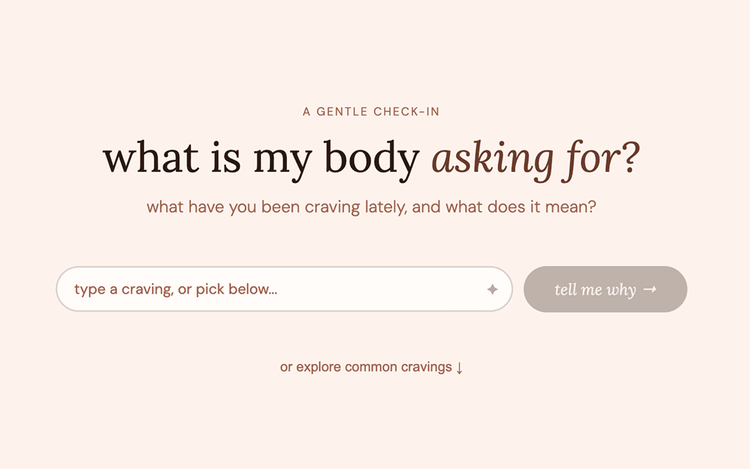
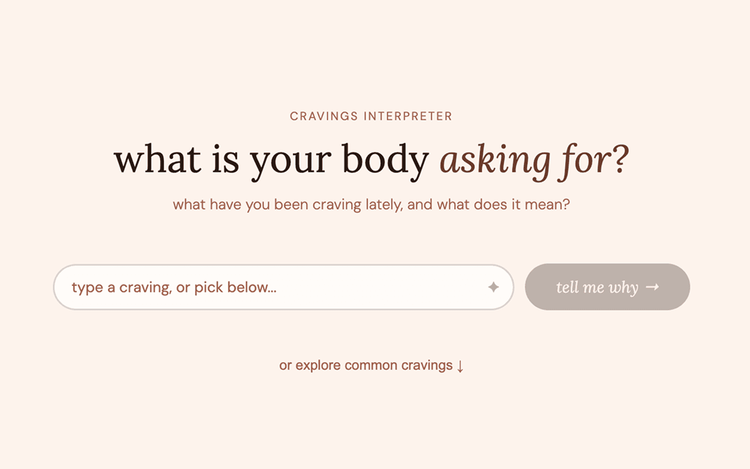
deploy: 8d00134ba653d9944df996dab0ade2da004dc816

diff --git a/projects/cravings/index.html b/projects/cravings/index.html
@@ -103,7 +103,7 @@
     <!-- Main content -->
     <div class="project-content">
       
-        <p>A small experimental tool for making sense of food cravings!</p><p>This was a “vibe coding” project where I skipped the usual Figma phase and built directly in the browser, using AI as a collaborative partner. I described the concept and visual direction, then iterated between Claude and ChatGPT to shape both the interface and logic.</p><p>The idea came from a personal problem: I’d often crave very specific textures or flavors, and always wondered why. I realized cravings can often point to something deeper that’s needed by your body, but instead of Googling it every time, I wanted a lightweight tool I could use to translate that for me.</p><p>Right now, the tool uses a structured set of keywords and associations to map inputs to categories. In the future, I’d be interested in exploring a more dynamic, AI-driven version that can better handle nuanced or mixed cravings.</p>
+        <p><i>[This tool is still underdoing edits]</i></p><p>A small experimental tool for making sense of food cravings!&nbsp;</p><p>This was a “vibe coding” project where I skipped the usual Figma phase and built directly in the browser, using AI as a collaborative partner. I described the concept and visual direction, then iterated between Claude and ChatGPT to shape both the interface and logic.</p><p>The idea came from a personal problem: I’d often crave very specific textures or flavors, and always wondered why. I realized cravings can often point to something deeper that’s needed by your body, but instead of Googling it every time, I wanted a lightweight tool I could use to translate that for me.</p><p>Right now, the tool uses a structured set of keywords and associations to map inputs to categories. In the future, I’d be interested in exploring a more dynamic, AI-driven version that can better handle nuanced or mixed cravings.</p>
       
 
     </div>

diff --git a/sandbox/cravings/cravings.html b/sandbox/cravings/cravings.html
@@ -48,12 +48,12 @@
 
   h1 {
     font-family: 'Lora', serif;
-    font-size: clamp(36px, 5vw, 40px);
+    font-size: clamp(32px, 5vw, 36px);
     font-weight: 400; line-height: 1.3; margin-bottom: 0.55rem; color: #2A1A14;
   }
   h1 em { font-style: italic; color: #6B3A2A; }
 
-  .header-sub { font-size: 16px; color: #A0624E; font-weight: 300; line-height: 1.6; }
+  .header-sub { font-size: 14px; color: #A0624E; font-weight: 300; line-height: 1.6; }
 
   .disclaimer {
     display: inline-block; font-size: 11px; color: #7A4A38;
@@ -311,8 +311,8 @@
   
   <div id="pickerScreen">
     <header>
-      <p class="eyebrow">a gentle check-in</p>
-      <h1>what is my body <em>asking for?</em></h1>
+      <p class="eyebrow">cravings interpreter</p>
+      <h1>what is your body <em>asking for?</em></h1>
       <p class="header-sub">what have you been craving lately, and what does it mean?</p>
       <!--<span class="disclaimer">not medical advice, just a curious nudge</span>-->
     </header>

diff --git a/sandbox/cravings/index.html b/sandbox/cravings/index.html
@@ -48,12 +48,12 @@
 
   h1 {
     font-family: 'Lora', serif;
-    font-size: clamp(36px, 5vw, 40px);
+    font-size: clamp(32px, 5vw, 36px);
     font-weight: 400; line-height: 1.3; margin-bottom: 0.55rem; color: #2A1A14;
   }
   h1 em { font-style: italic; color: #6B3A2A; }
 
-  .header-sub { font-size: 16px; color: #A0624E; font-weight: 300; line-height: 1.6; }
+  .header-sub { font-size: 14px; color: #A0624E; font-weight: 300; line-height: 1.6; }
 
   .disclaimer {
     display: inline-block; font-size: 11px; color: #7A4A38;
@@ -311,8 +311,8 @@
   
   <div id="pickerScreen">
     <header>
-      <p class="eyebrow">a gentle check-in</p>
-      <h1>what is my body <em>asking for?</em></h1>
+      <p class="eyebrow">cravings interpreter</p>
+      <h1>what is your body <em>asking for?</em></h1>
       <p class="header-sub">what have you been craving lately, and what does it mean?</p>
       <!--<span class="disclaimer">not medical advice, just a curious nudge</span>-->
     </header>
